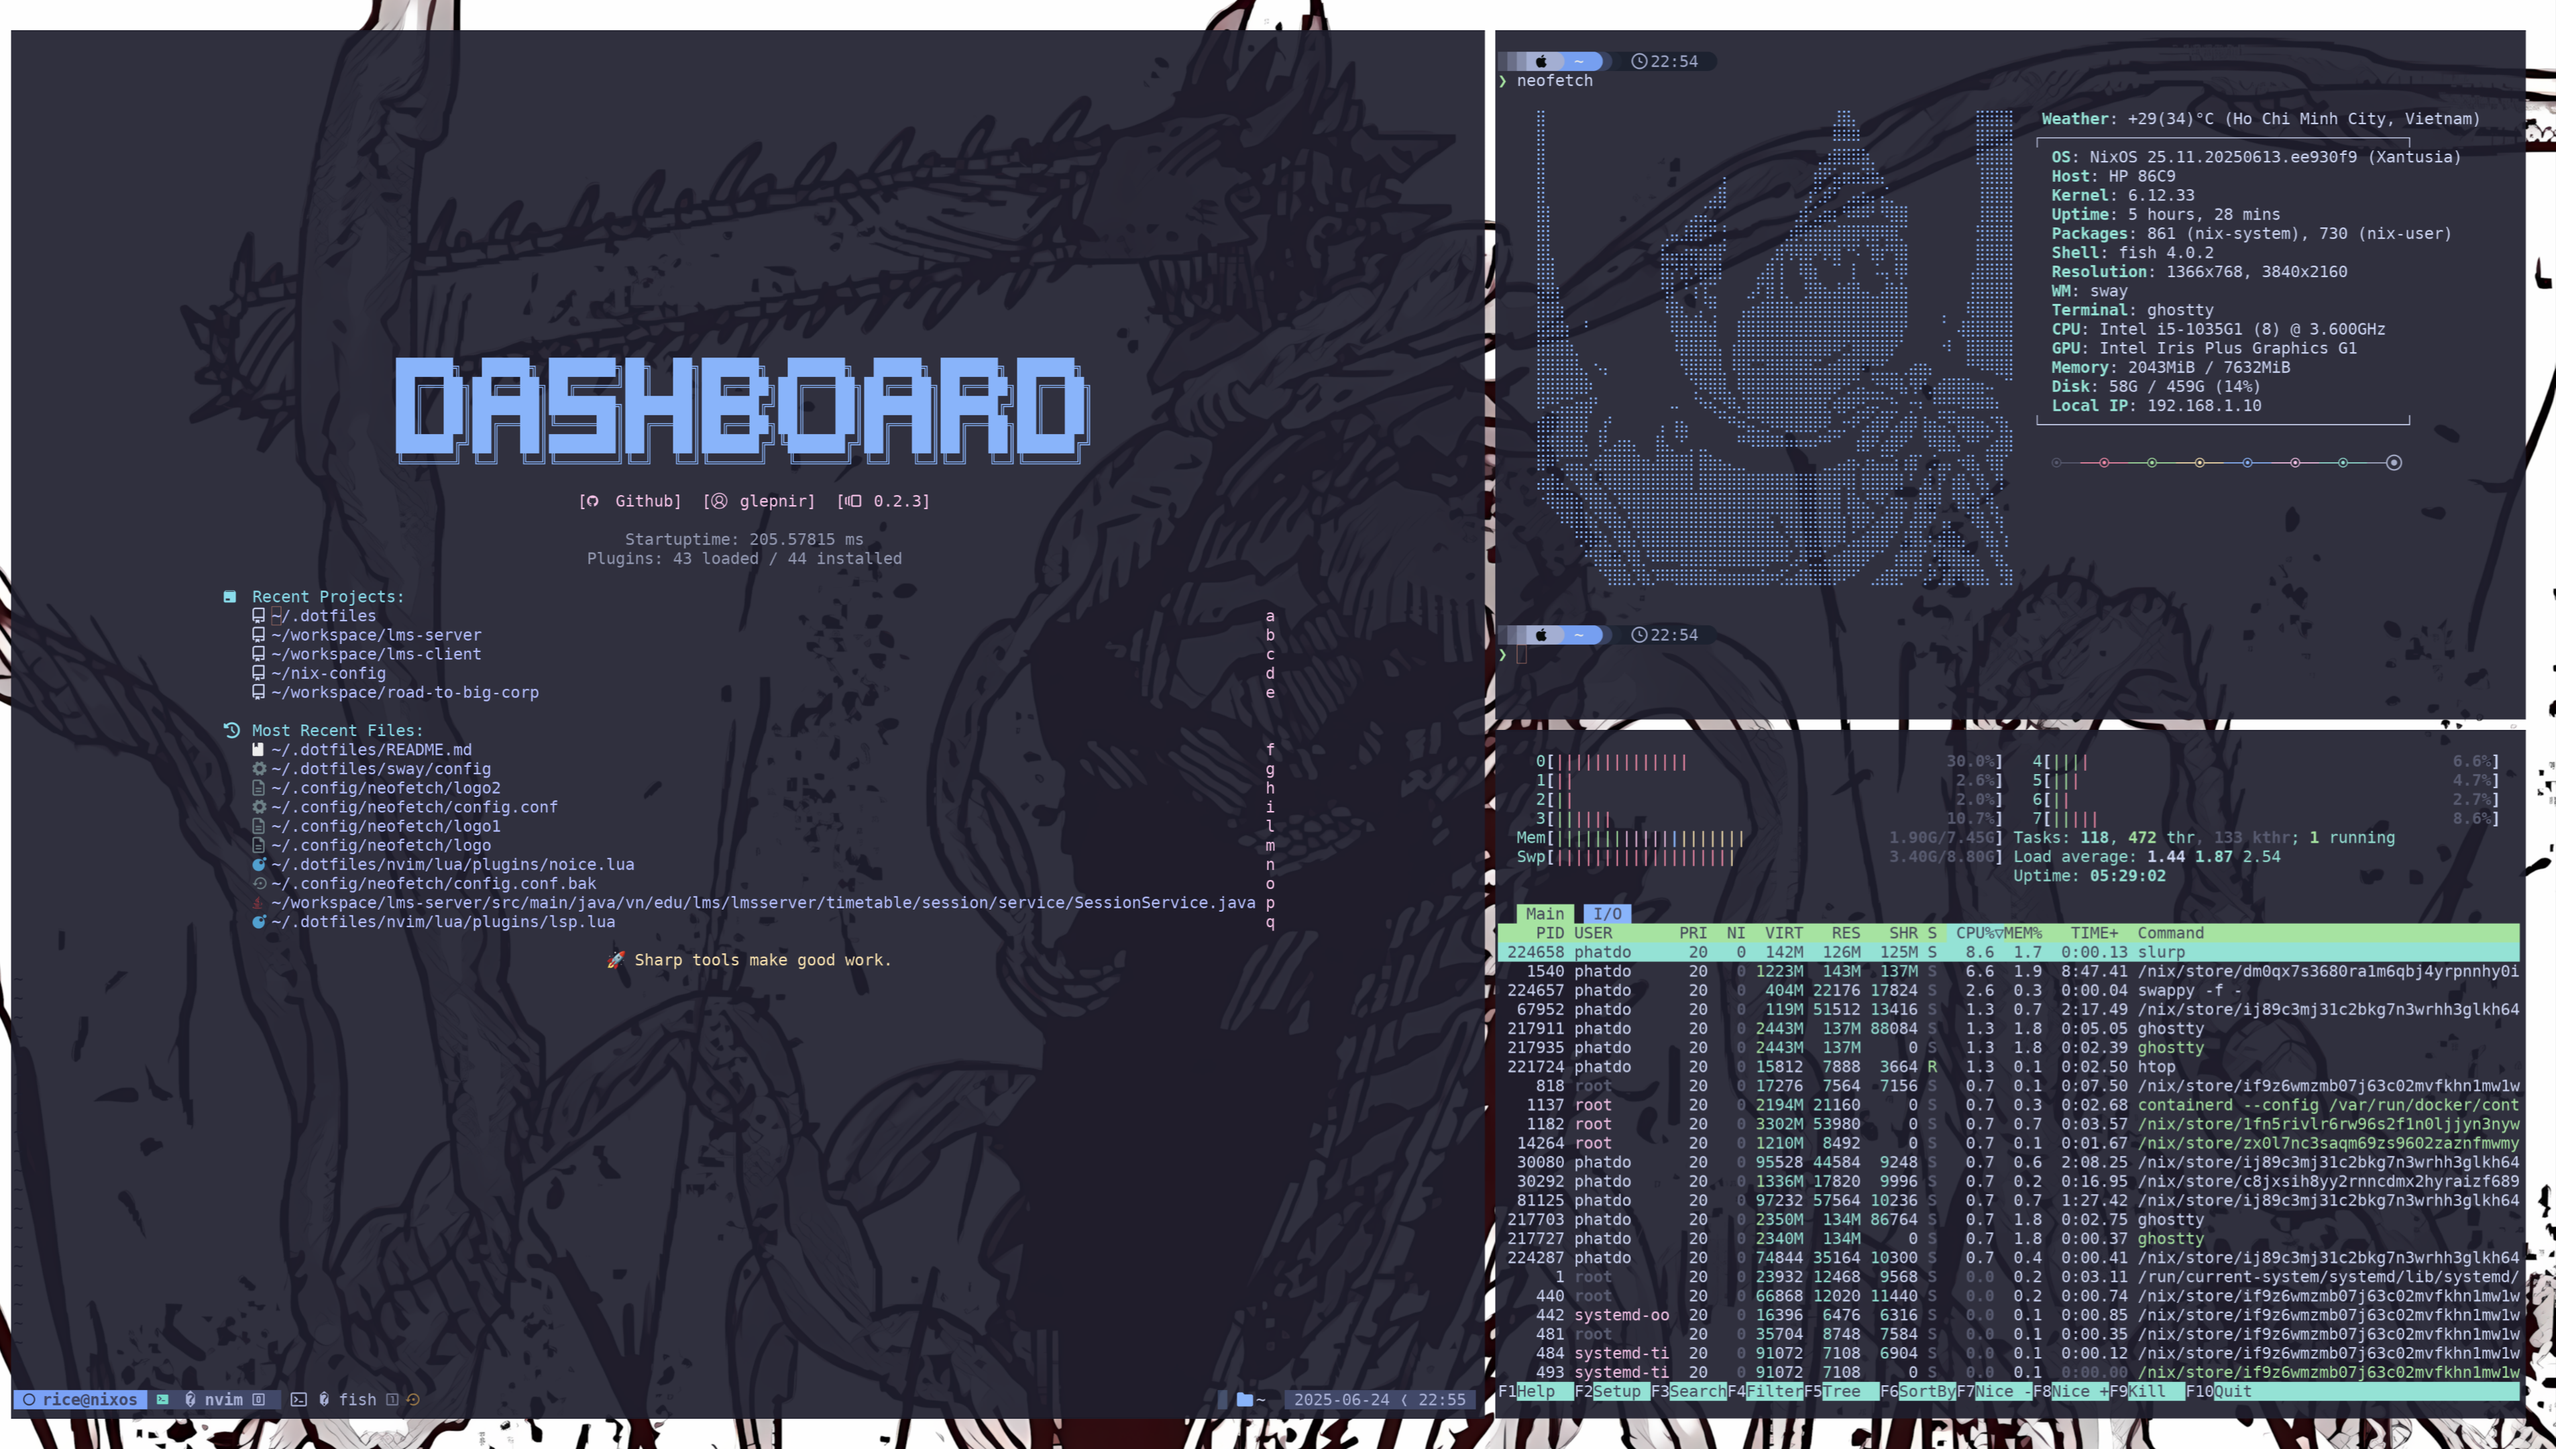
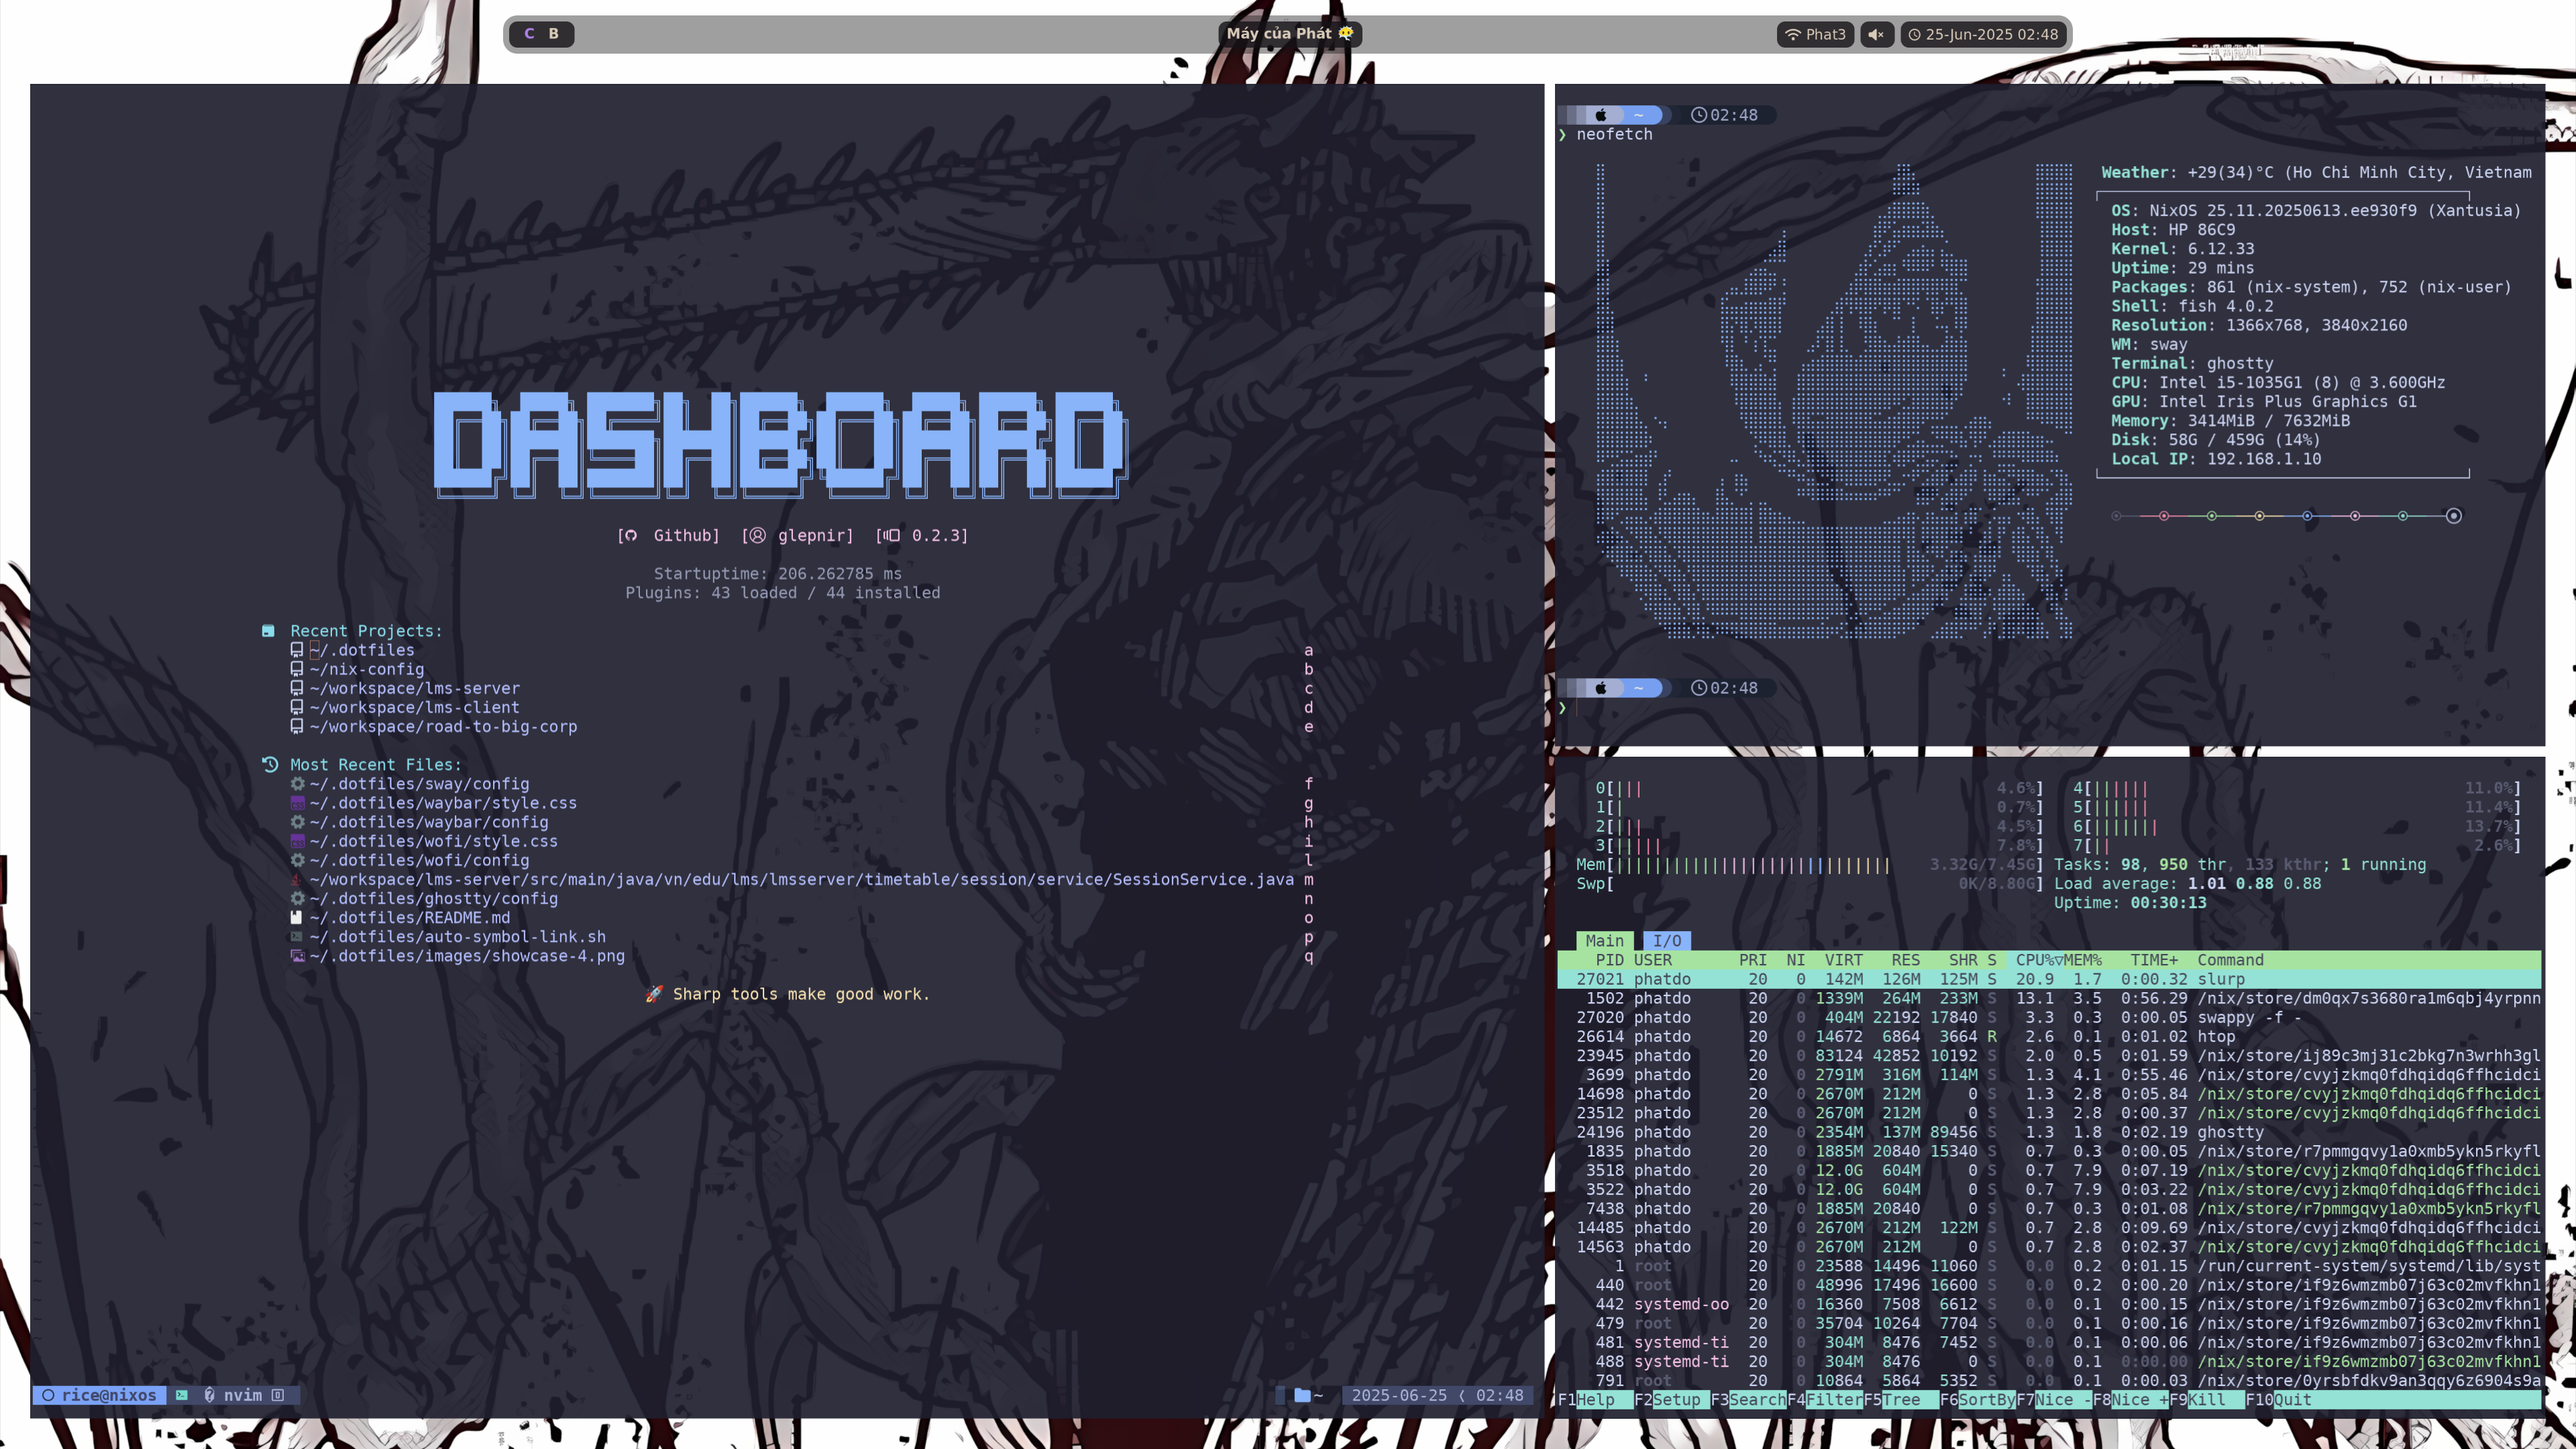
padding

diff --git a/waybar/style.css b/waybar/style.css
@@ -1,0 +1,112 @@
+* {
+  /* General taskbar font, I like maple mono ^-^*/
+  font-family: Maple Mono;
+  border-radius: 8;
+  font-size: 14px;
+  padding: 0px;
+  background: transparent;
+}
+
+window#waybar {
+  /* Linear gradients are used because it makes less harsh rounded border radius, gtk bug :p */
+  background: rgba(20, 18, 22, 0.4);
+  border-radius: 14px;
+  padding: 0px 15px 0 15px;
+  border-style: none;
+}
+
+#battery,
+#network,
+#clock,
+#custom-applauncher,
+#tray,
+#workspaces,
+#pulseaudio {
+  /* background-image: linear-gradient(to bottom, #27232b 100%); */
+  background: rgba(20, 18, 22, 0.8);
+  margin: 6px;
+  margin-right: 0px;
+  padding: 4px 8px;
+  border-radius: 8px;
+  color: #d8cab8;
+
+  border-style: none;
+  transition-duration: 120ms;
+}
+
+#clock {
+  margin-right: 6px;
+}
+
+#pulseaudio:hover {
+  background-image: linear-gradient(to bottom, #ac82e9 100%);
+  color: #141216;
+  transition-duration: 120ms;
+}
+
+#custom-applauncher {
+  font-weight: bold;
+  transition-duration: 120ms;
+}
+#custom-applauncher:hover {
+  background-image: linear-gradient(to bottom, #ac82e9 100%);
+  color: #141216;
+  transition-duration: 120ms;
+}
+
+#tray menu {
+  background-color: #141216;
+  color: #d8cab8;
+  padding: 4px;
+}
+#tray menu menuitem {
+  background-image: linear-gradient(to bottom, #27232b 100%);
+
+  margin: 3px;
+  color: #d8cab8;
+  border-radius: 4px;
+  border-style: solid;
+  border-color: #27232b;
+}
+#tray menu menuitem:hover {
+  background-image: linear-gradient(to bottom, #27232b 100%);
+  color: #ac82e9;
+  font-weight: bold;
+}
+
+#workspaces button {
+  transition-duration: 100ms;
+  all: initial;
+  min-width: 0;
+  font-weight: bold;
+  color: #d8cab8;
+  margin-right: 0.2cm;
+  margin-left: 0.2cm;
+}
+
+#workspaces button:hover {
+  transition-duration: 120ms;
+  color: #8f56e1;
+}
+#workspaces button.focused {
+  color: #ac82e9;
+  font-weight: bold;
+}
+#workspaces button.active {
+  color: #ac82e9;
+  font-weight: bold;
+}
+#workspaces button.urgent {
+  color: #fcb167;
+}
+
+#battery {
+  background-color: #222222;
+  color: #1d2021;
+}
+#battery.warning,
+#battery.critical,
+#battery.urgent {
+  color: #1d2021;
+  background-color: #fc4649;
+}

diff --git a/wofi/style.css b/wofi/style.css
@@ -1,0 +1,65 @@
+* {
+  font-family: Maple Mono;
+  background: transparent;
+  color: #d8cab8;
+}
+
+#window {
+  color: #d8cab8;
+  /*Linear gradient background instead of standard background, because it makes cleaner border-radius cuts, issa bug :p*/
+  background-image: linear-gradient(to bottom, #141216 100%);
+  border-radius: 14px;
+}
+#scroll {
+  border-top-style: solid;
+  border-width: 1px;
+  border-color: #d8cab8;
+}
+#inner-box {
+  padding-top: 12px;
+}
+#entry {
+  border-style: none;
+  border-color: #d8cab8;
+  color: #d8cab8;
+  padding: 6px;
+  margin-bottom: 8px;
+  margin-left: 12px;
+  margin-right: 12;
+
+  border-radius: 12px;
+}
+
+#entry:selected {
+  background: #27232b;
+  color: #d8cab8;
+  font-weight: bold;
+  outline: none;
+}
+
+#input {
+  background-color: #141216;
+  color: #d8cab8;
+
+  border-width: 0px;
+
+  font-style: normal;
+
+  border-radius: 8;
+  border-bottom-left-radius: 0px;
+  border-bottom-right-radius: 0px;
+
+  padding: 12px;
+  margin: 8px;
+}
+#input:focus {
+  background: #27232b;
+  background-color: #27232b;
+  border-color: #ac82e9;
+  font-style: italic;
+}
+
+#img {
+  padding: 4px;
+  margin-right: 6px;
+}
